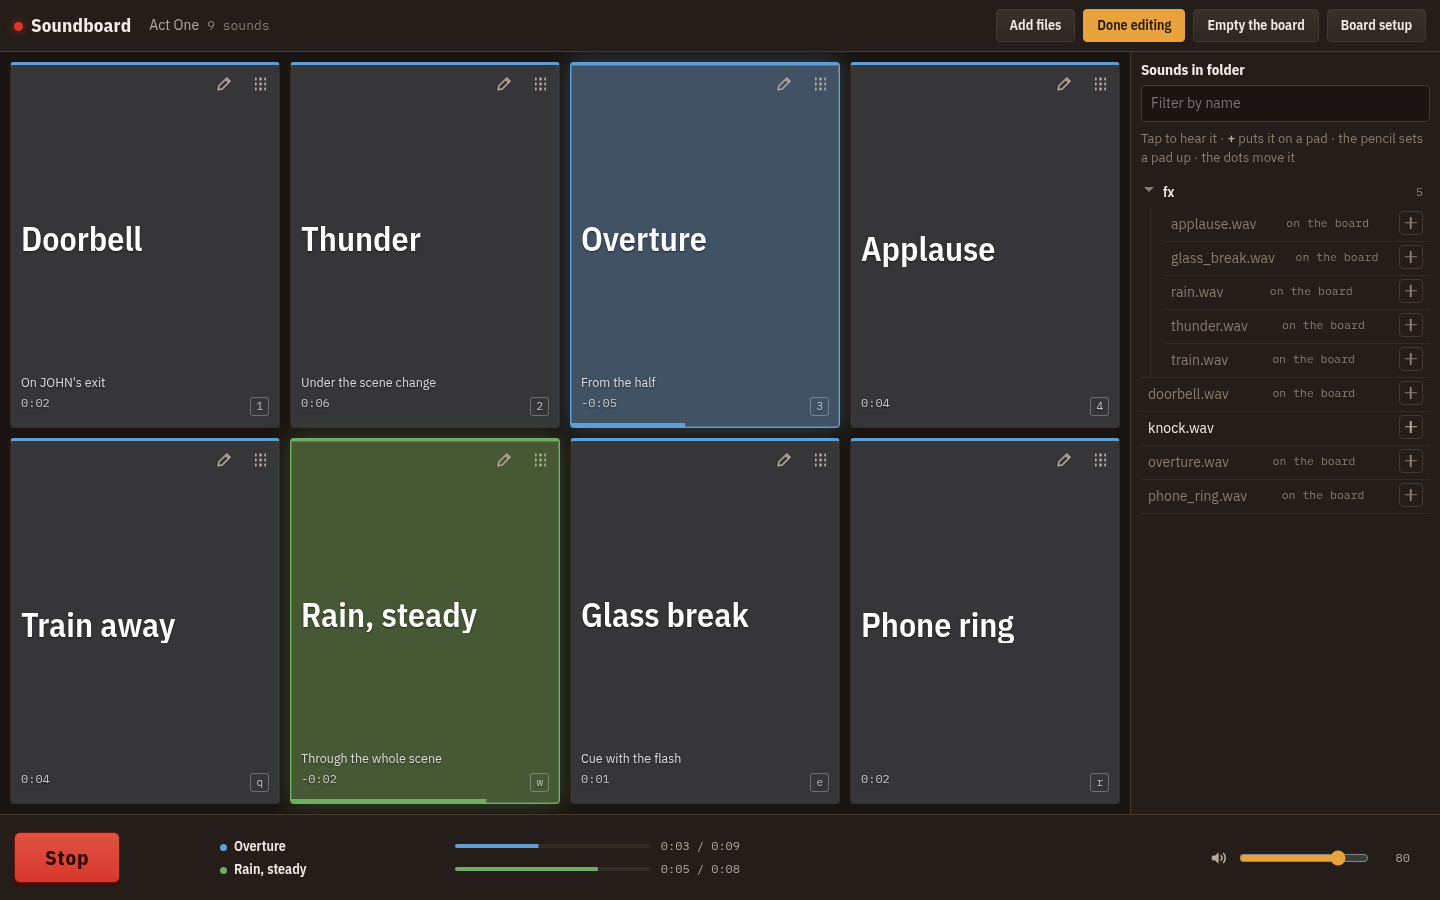
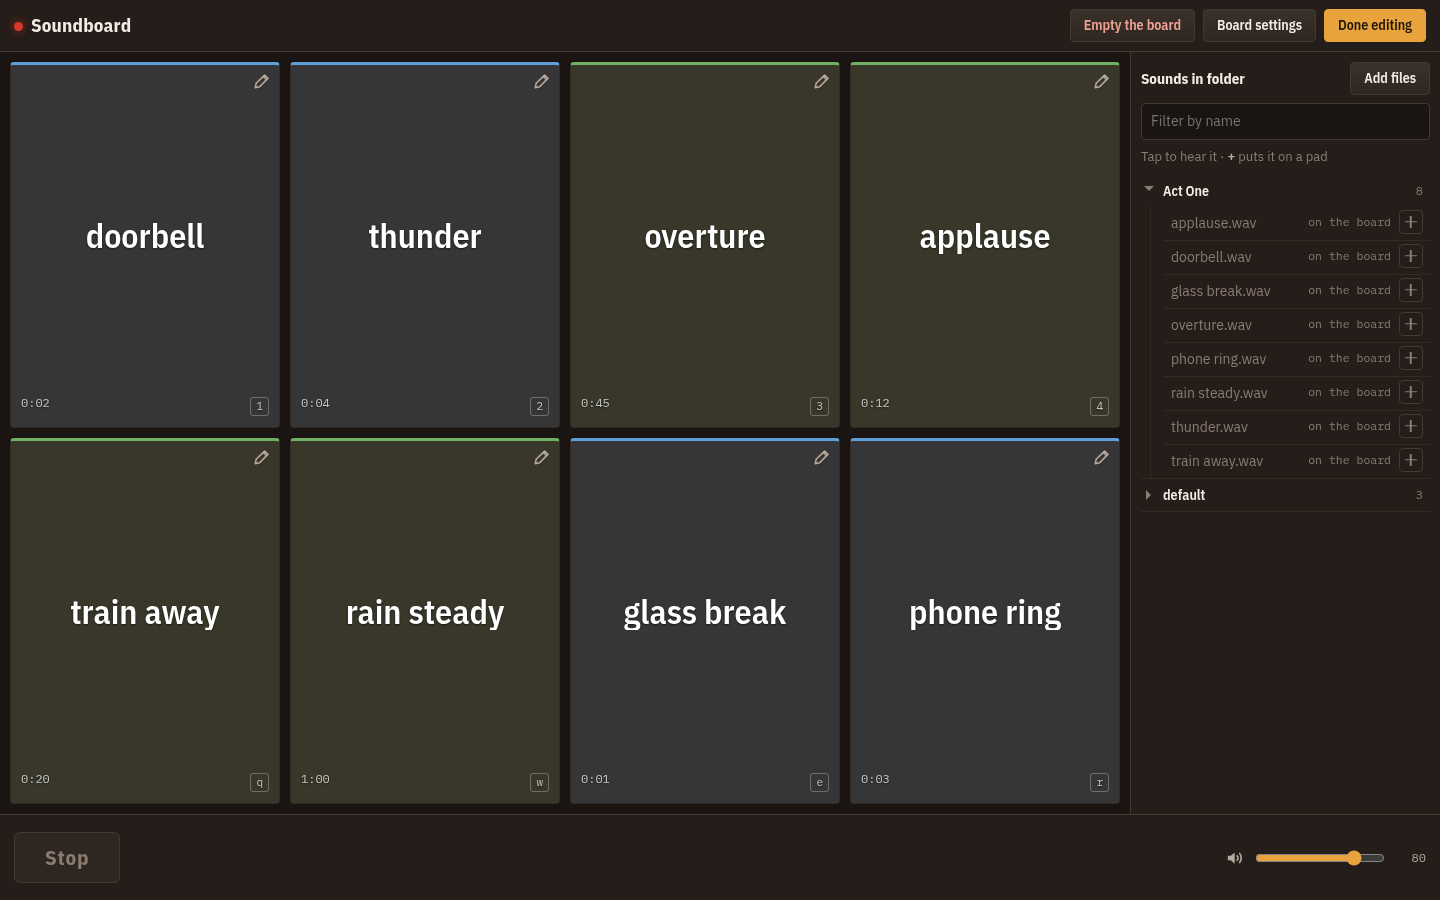
A sound's settings come from the sound, not from its name
The three sounds that ship with the app had their pads hardcoded by filename —
so the pink one stayed pink wherever it went, which is not a rule, it is a
coincidence. They are sounds like any other now: the length picks the colour,
the fade in and what a second tap does, and removing one and putting it back
gives the same answer as any other file of that length.

Clicking an empty pad now holds it: it lights up, says so, and the next + in
the folder lands there instead of on the first free pad. Clicking it again
lets it go, as does filling it or leaving edit mode.

Screenshots retaken: no folder line in the rail, hits blue and cues green.

diff --git a/js/app.js b/js/app.js
@@ -34,6 +34,7 @@ class App {
     this.saveTimer = null;
     this.pendingHandles = null;
     this.wakeLock = null;
+    this.padWanting = -1;      // the empty pad that asked for a sound
 
     this.engine.onchange = () => {
       drawStop(this.engine);
@@ -119,10 +120,11 @@ class App {
       const i = Number(el.dataset.i);
       const pad = this.board.pads[i];
       // An empty pad has nothing to set up: it wants a sound, which is in the
-      // folder.
+      // folder. It holds the place until one is picked.
       if (this.editing && (!pad || !pad.file)) {
-        if (NARROW.matches) setBook(true);
-        else toast('Drag a sound from the folders, or click its + icon.');
+        this.wantSound(i === this.padWanting ? -1 : i);
+        if (NARROW.matches && this.padWanting === i) setBook(true);
+        else if (this.padWanting === i) toast('Now pick a sound — its + puts it here.');
         return;
       }
       // While editing: the pencil sets the pad up, the pad itself is heard.
@@ -141,8 +143,9 @@ class App {
       const item = e.target.closest('.lib__item');
       if (!item) return;
       // Dragging a sound onto a pad has no equivalent under a finger, so the
-      // plus puts it on the first free pad; the row itself is just heard.
-      if (e.target.closest('.lib__add')) this.assignToFreePad(item.dataset.path);
+      // plus puts it on the pad that asked for one, or on the first free pad;
+      // the row itself is just heard.
+      if (e.target.closest('.lib__add')) this.assignToPad(item.dataset.path);
       else this.preview(item.dataset.path);
     });
 
@@ -668,6 +671,7 @@ class App {
   }
 
   setPad(i, pad) {
+    if (i === this.padWanting && pad) this.padWanting = -1;
     this.board.pads[i] = pad;
     fitPads(this.board);
     this.engine.stop(i, { fade: 0 });
@@ -680,14 +684,28 @@ class App {
     this.keepSounds();
   }
 
-  /** Tap a sound in the folder panel: it lands on the first pad with nothing on it. */
-  assignToFreePad(path) {
+  /**
+   * An empty pad that has been clicked is waiting for a sound; clicking it
+   * again, or filling it, lets it go. Nothing else on the board moves.
+   */
+  wantSound(i) {
+    const was = this.padWanting;
+    this.padWanting = i >= 0 ? i : -1;
+    if (was !== this.padWanting) this.redraw();
+  }
+
+  assignToPad(path) {
     if (!this.board || !this.library.has(path)) return;
-    const free = this.board.pads.findIndex((pad) => !pad || !pad.file);
+    // The pad that asked for a sound gets it; otherwise the first free one.
+    const asked = this.padWanting;
+    const free = asked >= 0 && !(this.board.pads[asked] || {}).file
+      ? asked
+      : this.board.pads.findIndex((pad) => !pad || !pad.file);
     if (free === -1) {
       toast('Every pad is taken. Add rows in Board settings, or tap a pad to replace what is on it.');
       return;
     }
+    this.wantSound(-1);
     this.setPad(free, newPad(this.board, free, path));
     const { row, col } = rowCol(this.board, free);
     // Show the pad it landed on rather than the list it came from.
@@ -843,6 +861,7 @@ class App {
     // wait for sounds to arrive.
     if (on && !this.board) this.blankBoard();
     this.editing = on;
+    this.padWanting = -1;
     this.disarm();
     setPanel(on);
     if (on) drawLibrary(this.board, this.library, refs.libFilter.value);
@@ -862,7 +881,11 @@ class App {
     refs.stageEmpty.hidden = !!this.board;
     refs.grid.hidden = !this.board;
     if (!this.board) return;
-    drawGrid(this.board, { editing: this.editing, missing: (path) => !this.library.has(path) });
+    drawGrid(this.board, {
+      editing: this.editing,
+      missing: (path) => !this.library.has(path),
+      waiting: this.padWanting,
+    });
     drawStop(this.engine);
     if (this.editing) drawLibrary(this.board, this.library, refs.libFilter.value);
     this.paint();
@@ -972,4 +995,3 @@ app.boot().catch((err) => {
   console.error(err);
   toast(`The board could not start: ${err.message}`);
 });
-

diff --git a/js/ui.js b/js/ui.js
@@ -30,7 +30,7 @@ const openDirs = new Set(prefs.get('openDirs', []));
 
 // ── grid ──────────────────────────────────────────────────────────────────
 
-export function drawGrid(board, { editing, missing = () => false }) {
+export function drawGrid(board, { editing, missing = () => false, waiting = -1 }) {
   const grid = refs.grid;
   grid.style.setProperty('--cols', board.cols);
   grid.replaceChildren();
@@ -62,8 +62,12 @@ export function drawGrid(board, { editing, missing = () => false }) {
       if (!el.title) el.title = padTitle(pad);   // the whole name, when it is clipped
     } else {
       el.classList.add('pad--empty');
-      el.append(span('pad__add', editing ? 'Add sound' : ''));
-      el.setAttribute('aria-label', `Empty pad, row ${row + 1} column ${col + 1}`);
+      // The pad that was asked for a sound says so, and says it in the place
+      // the sound's name will be.
+      const wanted = editing && i === waiting;
+      if (wanted) el.classList.add('pad--waiting');
+      el.append(span('pad__add', editing ? (wanted ? 'Pick a sound' : 'Add sound') : ''));
+      el.setAttribute('aria-label', `Empty pad, row ${row + 1} column ${col + 1}${wanted ? ', waiting for a sound' : ''}`);
       el.disabled = !editing;
     }
 

diff --git a/js/bundled.js b/js/bundled.js
@@ -4,29 +4,19 @@
 // folder: the pads point straight at them.
 //
 // To add one: drop the file in sounds/, add a line here, and add it to the
-// service worker's shell so it is there with the network off.
+// service worker's shell so it is there with the network off. They are sounds
+// like any other — their pads are set up by the same rules, not by their names.
 
 export const BUNDLED_DIR = 'default';
 
-export const BUNDLED = [
-  // A gunshot that fades in is not a gunshot, and two shots are two shots.
-  { file: 'gunshot.mp3', pad: { fadeIn: 0, tap: 'overlay' } },
-  { file: 'crickets ambiance.wav', pad: { gel: 'moss' } },
-  { file: 'sexy.mp3', pad: { gel: 'surprise-pink' } },
-];
+export const BUNDLED = ['gunshot.mp3', 'crickets ambiance.wav', 'sexy.mp3'];
 
-const BY_PATH = new Map(BUNDLED.map((s) => [`${BUNDLED_DIR}/${s.file}`, s]));
+const PATHS = BUNDLED.map((file) => `${BUNDLED_DIR}/${file}`);
 
 export function bundledPaths() {
-  return BUNDLED.map((s) => `${BUNDLED_DIR}/${s.file}`);
-}
-
-/** How a pad for one of these should differ from the board's defaults. */
-export function bundledPad(path) {
-  const sound = BY_PATH.get(path);
-  return (sound && sound.pad) || null;
+  return [...PATHS];
 }
 
 export function isBundledPath(path) {
-  return BY_PATH.has(path);
+  return PATHS.includes(path);
 }

diff --git a/js/model.js b/js/model.js
@@ -5,7 +5,6 @@
 // loses one.
 
 import { DEFAULT_GEL } from './gels.js';
-import { bundledPad } from './bundled.js';
 
 // Pads used to be handed Bastard Amber by default. Boards from before that
 // moved to Daylight Blue follow it rather than keeping a colour nobody picked.
@@ -63,9 +62,10 @@ export function applyLengthDefaults(board, pad) {
   }
 }
 
+// A new pad takes the board's defaults; what the sound is — a hit or a cue —
+// is not known until it has been measured, and applyLengthDefaults says so then.
 export function newPad(board, i, file) {
   const name = file ? prettyName(file) : '';
-  // A sound that ships with the board can ask for settings of its own.
   return {
     file: file || '',
     name,
@@ -80,7 +80,6 @@ export function newPad(board, i, file) {
     solo: false,
     key: defaultKey(board, i),
     duration: 0,
-    ...(file ? bundledPad(file) || {} : {}),
   };
 }
 
@@ -204,9 +203,6 @@ function migratePad(board, i, raw, version) {
   pad.solo = !!raw.solo;
   pad.key = typeof raw.key === 'string' ? raw.key.slice(0, 1) : '';
   pad.duration = clampNum(raw.duration, 0, 1e5, 0);
-  // Pads made from the sounds that ship with the app take their settings again
-  // when those settings change, once.
-  if (version < 3) Object.assign(pad, bundledPad(pad.file) || {});
   return pad;
 }
 

diff --git a/js/library.js b/js/library.js
@@ -67,14 +67,14 @@ export class Library {
     if (this.sources.some((s) => s.kind === 'bundled')) return [];
     const src = this._source({ kind: 'bundled', name: BUNDLED_DIR });
     const added = [];
-    for (const sound of BUNDLED) {
-      const path = `${BUNDLED_DIR}/${sound.file}`;
+    for (const file of BUNDLED) {
+      const path = `${BUNDLED_DIR}/${file}`;
       if (this.entries.has(path)) continue;
       this.entries.set(path, {
         path,
-        name: sound.file,
+        name: file,
         dir: BUNDLED_DIR,
-        url: `sounds/${encodeURIComponent(sound.file)}`,
+        url: `sounds/${encodeURIComponent(file)}`,
         bundled: true,
         src: src.key,
       });

diff --git a/css/app.css b/css/app.css
@@ -202,6 +202,17 @@ body[data-editing="on"] .desk { grid-template-columns: 1fr var(--book); }
 .pad--empty { color: var(--ink-faint); border-style: dashed; background: none; }
 .pad--empty:hover { color: var(--ink-dim); background: var(--console); }
 
+/* The pad that has been asked for a sound. It stays lit while the folder is
+   open over it, so there is no doubt about where the next one lands. */
+.pad--waiting,
+.pad--waiting:hover {
+  color: var(--ink);
+  border-color: var(--warn);
+  border-style: solid;
+  background: color-mix(in oklab, var(--warn) 12%, transparent);
+  box-shadow: inset 0 0 0 1px var(--warn);
+}
+
 .pad__name {
   grid-area: name;
   align-self: center;

diff --git a/README.md b/README.md
@@ -8,11 +8,11 @@ click or by key.
 No build step, no server, no account, and nothing is uploaded: the files are read
 straight off the disk by the browser and never leave it.
 
-![The board on a laptop: a grid of coloured pads, Stop and what is playing along the bottom](docs/board.png)
+![The board on a laptop: eight pads, two of them green and running with the time left counting down, Stop and the volume along the bottom](docs/board.png)
 
-<img src="docs/phone.png" alt="The same board on a phone: the pads filling the screen, Stop and the volume underneath" width="300">
+<img src="docs/phone.png" alt="The same sounds on a phone, two pads across, Stop and the volume underneath" width="300">
 
-![Edit mode: the board on the left with a pencil in each pad's corner, the folder's tree of sounds on the right](docs/edit.png)
+![Edit mode: the board on the left with a pencil in each pad's corner, the tree of folders on the right](docs/edit.png)
 
 ## Running it
 
@@ -90,8 +90,10 @@ you have set.
 
 While editing, a tap is a listen: a sound in the tree plays where it is, and so
 does a pad, so a cue can be checked before and after it goes on the board. The
-**+** beside a sound puts it on the next free pad; the pencil in a pad's corner
-opens its settings, where **Hear it** plays it again. With a mouse the whole pad
+**+** beside a sound puts it on the next free pad — or on a particular one:
+click an empty pad and it lights up and waits, and the next **+** lands there.
+Clicking it again lets it go. The pencil in a pad's corner opens its settings,
+where **Hear it** plays it again. With a mouse the whole pad
 is a handle: press anywhere but the pencil and move, and the pad comes with you;
 press and release without moving and it just plays. Under a finger, rest on a pad
 for a moment and it comes away with you — a touch that moves straight away is
@@ -116,9 +118,12 @@ for a hard scene change.
 
 **Running the show.** Tap a pad to fire it. A pad that is playing lights up in
 its own colour, the way a lamp does, with a green light, a countdown and a travel
-bar along its bottom edge — the board itself says what is running. Pads all
-start the same colour, so one of the eleven lighting gels means something once
-it is chosen — a group, a scene, an act. The red **Stop** button takes everything
+bar along its bottom edge — the board itself says what is running. A sound's
+own length picks where it starts from: under five seconds it is a hit — a shot,
+a door, a slap — so it comes up blue, starts at full level with no fade in, and
+a second tap layers another copy on top; anything longer is a cue that runs, and
+comes up green. Change any of it and the change stands. The eleven lighting gels
+are there to mean something once one is chosen — a group, a scene, an act. The red **Stop** button takes everything
 playing out, each sound on its own fade; `Esc` cuts the lot dead the moment you
 hit it.
 
